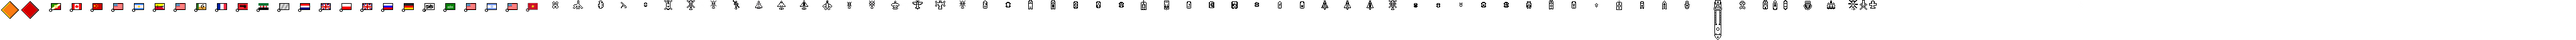
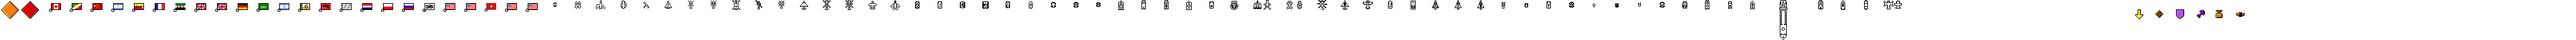
1.5.5 + minor fixes
Added new map
Fixed "NaN" on playbar's end
Added proper SL icons.

Changed region(s): [[0.0, 0.0, 0.75, 0.2812], [0.8125, 0.25, 0.875, 0.4375]]

diff --git a/js/canvas.js b/js/canvas.js
@@ -181,12 +181,12 @@ const orderEnums = [null,
 	null,
 	null,
 	null,
-	["moveorder", "#cbc337"], // move
-	["attackorder", "#ff9900"], // target
-	["defendorder", "#ca32f2"], // defend
-	["buildorder", "#ca32f2"], // build
-	["destroyorder", "#ff9900"], // destroy
-	["observeorder", "#ff9900"]  // observe
+	[0, "#cbc337"], // move
+	[33, "#ff9900"], // target
+	[66, "#ca32f2"], // defend
+	[99, "#ca32f2"], // build
+	[132, "#ff9900"], // destroy
+	[165, "#ff9900"]  // observe
 ]
 
 
@@ -206,13 +206,12 @@ function drawOrderIcon(order)
 	if (e == null)
 		return
 	
-	const icon = e[0]
+	const iconX = e[0]
 	const x = XtoCanvas(order.X)
 	const y = YtoCanvas(order.Z)
 	
-	//Context.drawImage(icon, order.x, order.y) ////TODO
-	Context.drawImage(icons.CacheRevealed, x-6, y-6, 12, 12) 
-	
+	Context.drawImage(icons.squadorders, iconX, 12, 20, 32, x - 16, y - 14, 20, 32) 
+
 	
 	Context.fillStyle = (order.team == 1) ? Style_RedTeam : Style_BlueTeam
 	Context.fillText(order.squad, x + 5, y - 5)

diff --git a/js/main.js b/js/main.js
@@ -245,6 +245,8 @@ function updateHeader()
 
 function getTimeStringOfTick(tick)
 {
+	if (tick >= tickToTime.length) tick = tickToTime.length - 1
+	
 	const time = roundLength + briefingtime - tickToTime[tick]
 	return getTimeString(time)
 }
